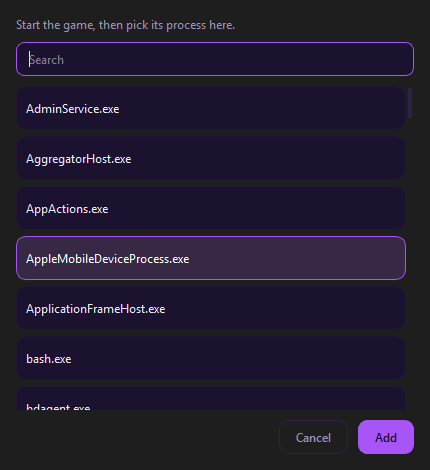
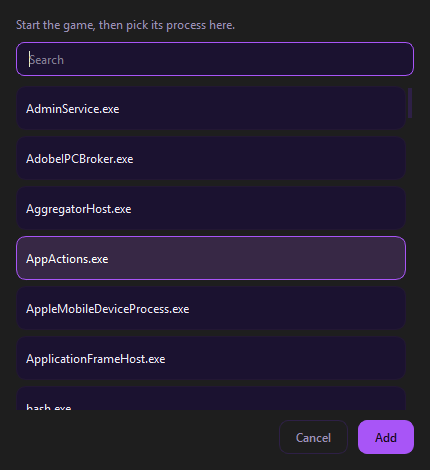
Explain why brightness, contrast and gamma are unavailable
The NVIDIA control panel sets those three through the same Windows call
(SetDeviceGammaRamp), so when a kernel anti-cheat blocks the gamma ramp,
the control panel cannot change them either. Say that in the message
instead of leaving the impression that Amethyst is the limitation.

DDC/CI now reports why it is unavailable: the driver handing out no
control channel usually means DDC/CI is switched off in the monitor menu,
or the cable path (adapter, KVM) does not carry it. That is actionable,
an empty list is not.

diff --git a/amethyst/winapi/ddcci.py b/amethyst/winapi/ddcci.py
@@ -98,6 +98,24 @@ def available() -> bool:
     return dxva2 is not None
 
 
+def probe_status() -> tuple[list[MonitorControl], str]:
+    """Monitors that answer over DDC/CI, plus a reason when none of them does."""
+    if dxva2 is None:
+        return [], "dxva2.dll is missing on this system."
+    monitors = _monitor_handles()
+    if not monitors:
+        return [], "No monitor found."
+    controls = probe()
+    if controls:
+        return controls, ""
+    # The driver reports a monitor but hands out no handle: that is what happens
+    # when DDC/CI is switched off in the monitor menu, or when the cable path
+    # (adapter, KVM, docking station) does not carry the control channel.
+    return [], ("The driver hands out no control channel for this monitor. Enable DDC/CI in "
+                "the monitor menu, and connect the monitor directly instead of through an "
+                "adapter or KVM switch.")
+
+
 def probe() -> list[MonitorControl]:
     """Every monitor that answers over DDC/CI."""
     if dxva2 is None:

diff --git a/amethyst/engine.py b/amethyst/engine.py
@@ -33,6 +33,7 @@ class Capabilities:
     vibrance_reason: str = ""
     driver: str = ""
     ddcci_devices: list[str] = field(default_factory=list)
+    ddcci_reason: str = ""
 
     @property
     def ddcci_ok(self) -> bool:
@@ -90,6 +91,7 @@ class Engine:
     # -- Capabilities -------------------------------------------------
     def _detect(self) -> Capabilities:
         status = gamma.probe()
+        controls, ddcci_reason = ddcci.probe_status()
         caps = Capabilities(
             gamma_ok=status.available,
             gamma_reason=status.reason,
@@ -97,7 +99,8 @@ class Engine:
             vibrance_ok=self.nv.available,
             vibrance_reason=self.nv.reason,
             driver=self.nv.driver,
-            ddcci_devices=[c.device for c in ddcci.probe() if c.brightness],
+            ddcci_devices=[c.device for c in controls if c.brightness],
+            ddcci_reason=ddcci_reason,
         )
         return caps
 

diff --git a/amethyst/winapi/gamma.py b/amethyst/winapi/gamma.py
@@ -182,8 +182,10 @@ def probe(device: str | None = None) -> GammaStatus:
     if blocker:
         return GammaStatus(
             False,
-            f"{blocker} blocks the gamma ramp system wide. "
-            "Digital vibrance and resolution still work.")
+            f"{blocker} blocks the gamma ramp system wide, for every program. "
+            "The NVIDIA control panel sets brightness, contrast and gamma through the same "
+            "Windows call, so it cannot change them either while this runs. "
+            "Digital vibrance and resolution are unaffected.")
     return GammaStatus(
         False,
         "Windows refuses access to the gamma ramp. "

diff --git a/amethyst/ui/page_settings.py b/amethyst/ui/page_settings.py
@@ -185,7 +185,7 @@ class SettingsPage(QWidget):
             + ("" if caps.vibrance_ok else f" ({caps.vibrance_reason})"),
             f"Gamma ramp: {'available' if caps.gamma_ok else 'blocked'}"
             + ("" if caps.gamma_ok else f" ({caps.gamma_reason})"),
-            f"DDC/CI: {', '.join(caps.ddcci_devices) if caps.ddcci_devices else 'no answer from the monitor'}",
+            f"DDC/CI: {', '.join(caps.ddcci_devices) if caps.ddcci_devices else caps.ddcci_reason or 'no answer from the monitor'}",
             f"Data folder: {data_dir()}",
         ]
         self.diagnostics_text.setText("\n".join(lines))
